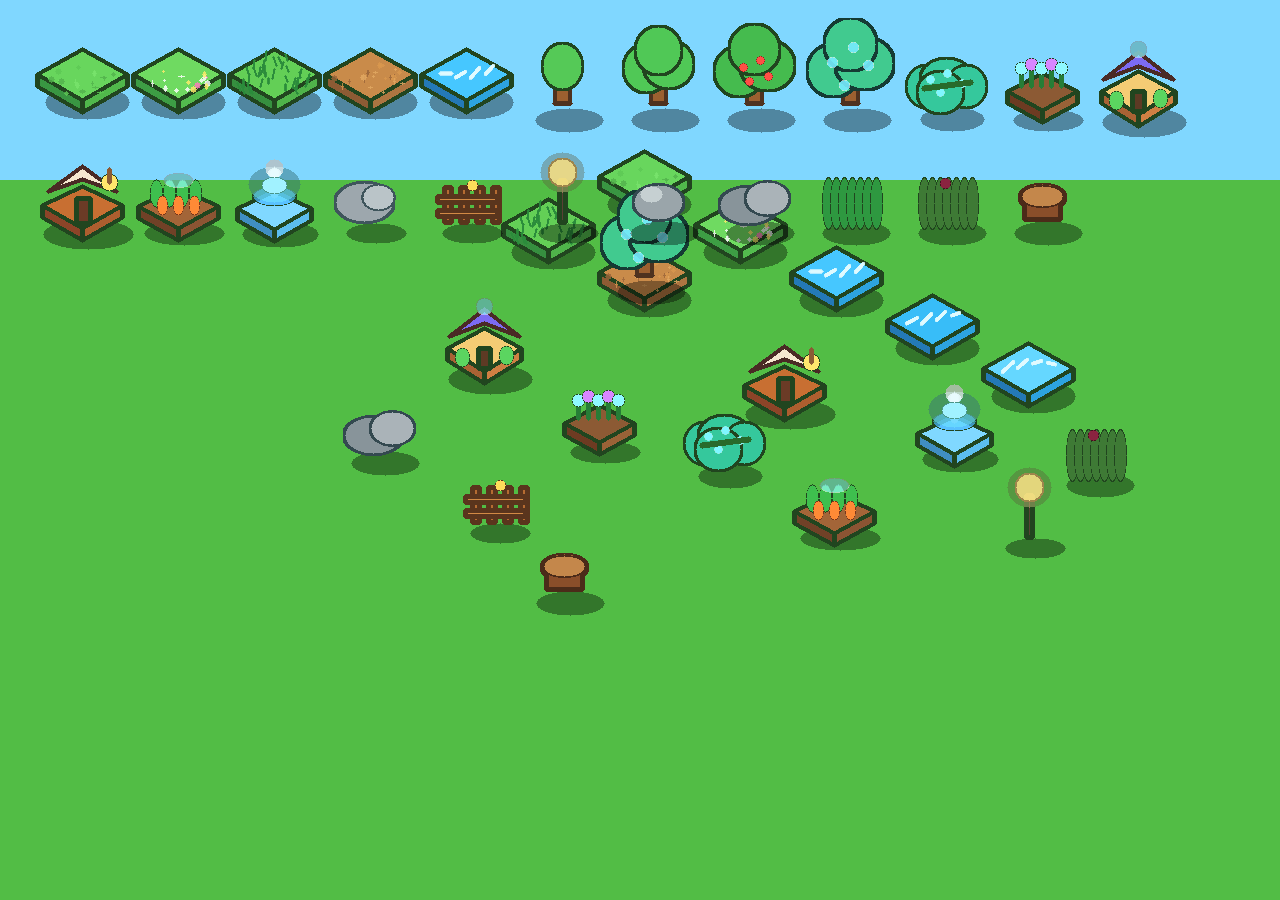
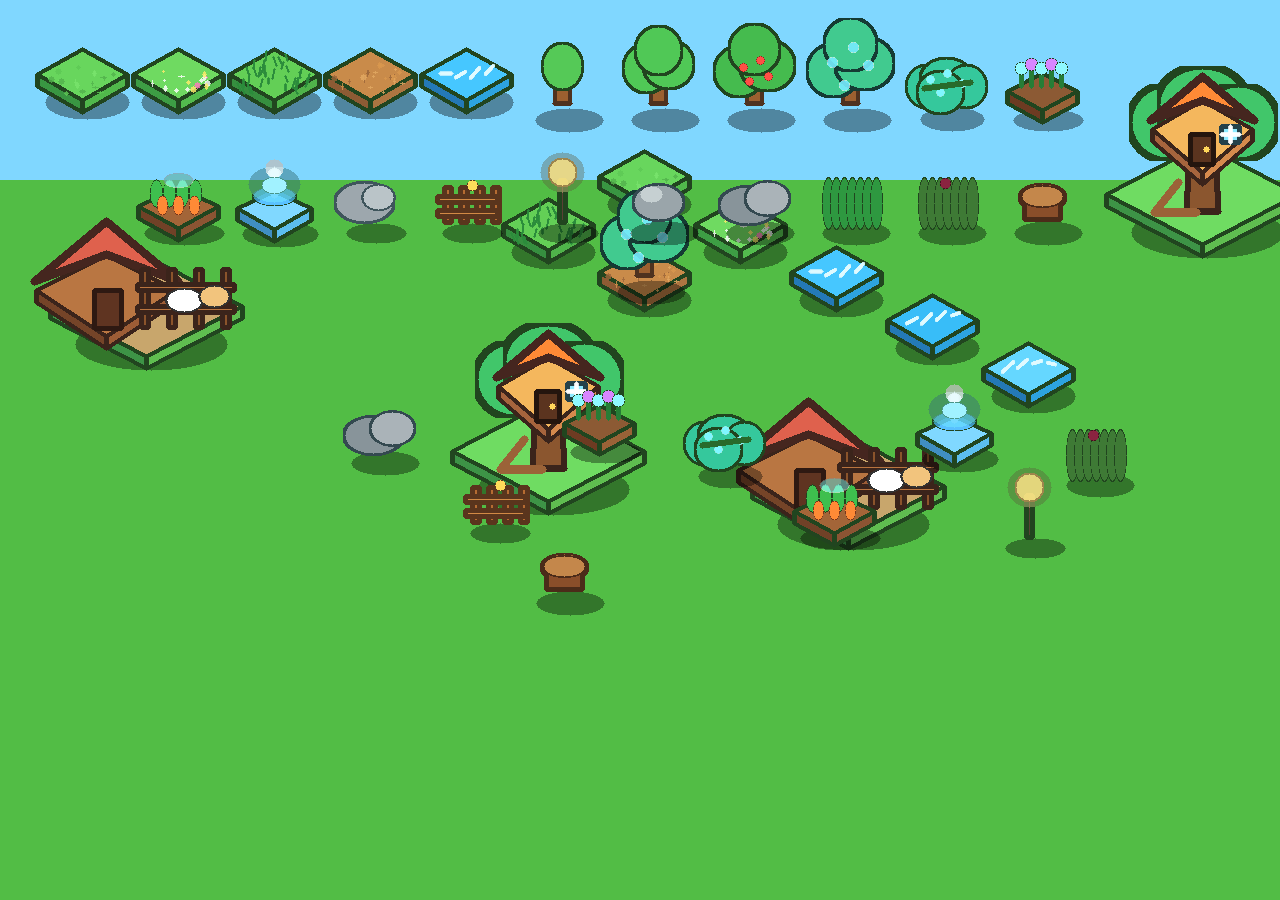
Apply distinct house and farm building sprites

diff --git a/scripts/generate_v3_sprites.py b/scripts/generate_v3_sprites.py
@@ -129,29 +129,92 @@ def flowers(level):
         img.ellipse(x,50-(i%2)*4,6,6,rgba(palettes[level-1][i%2]),rgba('#21451f'),1)
     return img
 
+def big_shadow(img): shadow(img,128,206,76,26)
+def roof_shape(img, pts, color): img.poly(pts, rgba(color), rgba('#45261f'), 4)
+def door_shape(img,x,y,w,h):
+    img.rect(x,y,w,h,rgba('#5b341f'),rgba('#24150e'))
+    img.ellipse(x+w-7,y+h/2,3,3,rgba('#ffd65a'))
+def window_shape(img,x,y,w,h):
+    img.rect(x,y,w,h,rgba('#8eeaff'),rgba('#24414a'))
+    img.line(x+w/2,y,x+w/2,y+h,rgba('#ffffff',210),2)
+    img.line(x,y+h/2,x+w,y+h/2,rgba('#ffffff',210),2)
+def base_building_tile(img, top='#79dc61'):
+    diamond(img,(128,126),(224,176),(128,226),(32,176),top,'#3d9346','#5fbd50','#21451f')
+
 def house(level):
-    img=Img(); shadow(img,65,96,42,15)
-    body=['#d88a42','#e5a34e','#f0b35e','#f4cc74'][level-1]; roof=['#b94c48','#d25a4d','#de704e','#7c6bf2'][level-1]
-    diamond(img,(64,53),(101,73),(64,96),(27,73),body,'#a96234','#ce7f43')
-    img.poly([(29,61),(64,34),(99,61),(64,48)],rgba(roof),rgba('#4a2a25'),2)
-    img.rect(58,73,12,20,rgba('#5d3a24'),rgba('#21451f'))
-    if level>=3: img.ellipse(42,82,7,9,rgba('#5bd560'),rgba('#21451f'),1); img.ellipse(86,80,7,9,rgba('#5bd560'),rgba('#21451f'),1)
-    if level>=4: img.ellipse(64,31,8,8,rgba('#8ff9ff',180),rgba('#ffffff',120),1)
+    # Four visibly different home silhouettes: cottage, mill-house, manor, treehouse.
+    img=Img(256,256); big_shadow(img)
+    if level == 1:
+        base_building_tile(img)
+        diamond(img,(128,108),(190,140),(128,184),(66,140),'#f4c56d','#b96f41','#dc9150','#3b241b')
+        roof_shape(img,[(58,128),(128,72),(198,128),(128,105)],'#d94b45')
+        img.rect(156,74,18,26,rgba('#7b3c2a'),rgba('#3b241b'))
+        img.poly([(154,70),(176,70),(181,82),(149,82)],rgba('#cf6a3f'),rgba('#3b241b'),3)
+        door_shape(img,116,146,24,38); window_shape(img,82,135,24,20); window_shape(img,154,137,24,20)
+        img.ellipse(72,176,16,22,rgba('#4ed35d'),rgba('#21451f'),2); img.ellipse(187,175,14,20,rgba('#ff7ab6'),rgba('#21451f'),2)
+    elif level == 2:
+        base_building_tile(img,'#70d95d')
+        diamond(img,(128,96),(188,132),(128,194),(68,132),'#fff0b4','#c8864c','#efb46d','#3b241b')
+        roof_shape(img,[(66,120),(128,62),(190,120),(128,92)],'#3b93e6')
+        img.rect(82,132,35,55,rgba('#f7d884'),rgba('#3b241b')); roof_shape(img,[(72,132),(100,103),(128,132),(100,118)],'#2d7fd2')
+        door_shape(img,134,148,26,38); window_shape(img,93,144,16,18); window_shape(img,166,137,22,20)
+        for x,y in [(62,182),(190,178)]: img.ellipse(x,y,12,20,rgba('#56d164'),rgba('#21451f'),2)
+    elif level == 3:
+        base_building_tile(img,'#7cdc65')
+        diamond(img,(128,92),(198,128),(128,202),(58,128),'#f7d28a','#b67a49','#e4a765','#3b241b')
+        roof_shape(img,[(54,116),(128,52),(202,116),(128,88)],'#7c62f0')
+        for x in [72,164]:
+            img.rect(x,105,28,78,rgba('#f2c979'),rgba('#3b241b'))
+            roof_shape(img,[(x-6,105),(x+14,72),(x+34,105),(x+14,94)],'#5e4bd7')
+            window_shape(img,x+7,122,14,18)
+        door_shape(img,116,154,28,42); window_shape(img,118,120,22,21)
+        img.ellipse(128,50,9,9,rgba('#8ff9ff',180),rgba('#ffffff',160),1)
+    else:
+        base_building_tile(img,'#6fdc62')
+        img.poly([(112,193),(144,193),(140,113),(116,113)],rgba('#8b562f'),rgba('#3b241b'),3)
+        for dx,dy,rx in [(-34,0,36),(0,-18,42),(36,0,36)]: img.ellipse(128+dx,104+dy,rx,35,rgba('#41c66a'),rgba('#21451f'),3)
+        diamond(img,(128,82),(178,111),(128,154),(78,111),'#f4b75d','#a6643d','#d58a4d','#3b241b')
+        roof_shape(img,[(76,102),(128,58),(180,102),(128,82)],'#ff8a36')
+        door_shape(img,116,116,23,30); window_shape(img,147,108,18,16)
+        img.line(104,164,80,194,rgba('#9b6338'),4); img.line(80,194,122,194,rgba('#9b6338'),4)
     return img
 
 def farm(level):
-    img=Img(); shadow(img,65,96,45,15)
-    if level==1:
-        diamond(img,(64,59),(104,78),(64,99),(24,78),'#b97540','#7b4a2b','#9d6338')
-        for x in [38,52,76,90]: img.rect(x,59,4,27,rgba('#8a4d28'),rgba('#4a2b1a'))
-    elif level==2:
-        img=farm(1); img.ellipse(54,68,8,6,rgba('#fff'),rgba('#333'),1); img.ellipse(77,70,8,6,rgba('#f6d59a'),rgba('#333'),1)
+    # Four farm silhouettes: barn, barn+silo, windmill farm, animal paddock.
+    img=Img(256,256); big_shadow(img)
+    if level == 1:
+        base_building_tile(img,'#c9a467')
+        diamond(img,(128,97),(204,137),(128,207),(52,137),'#d85848','#923e34','#c94b3f','#3b241b')
+        roof_shape(img,[(48,123),(128,56),(208,123),(128,90)],'#fff0d0')
+        img.rect(108,153,40,48,rgba('#6b3727'),rgba('#2e1912')); img.line(108,153,148,201,rgba('#f7cfae'),3); img.line(148,153,108,201,rgba('#f7cfae'),3)
+        window_shape(img,80,132,24,22); window_shape(img,154,132,24,22)
+        img.ellipse(48,184,18,12,rgba('#f0c85b'),rgba('#7a531f'),2); img.ellipse(202,181,15,11,rgba('#f0c85b'),rgba('#7a531f'),2)
+    elif level == 2:
+        base_building_tile(img,'#c69c5e')
+        diamond(img,(118,107),(190,140),(118,204),(46,140),'#c94a3f','#8f3a32','#bd4539','#3b241b')
+        roof_shape(img,[(42,127),(118,62),(194,127),(118,96)],'#f7e6c8')
+        img.rect(178,84,28,104,rgba('#d9e8e8'),rgba('#3d5555')); img.ellipse(192,84,14,10,rgba('#ffffff'),rgba('#3d5555'),2)
+        img.rect(94,154,38,44,rgba('#6b3727'),rgba('#2e1912')); window_shape(img,67,135,22,20)
+        for x in [40,58,216]: img.rect(x,158,7,40,rgba('#8b542b'),rgba('#3b241b'))
+        img.rect(35,171,188,6,rgba('#b97540'),rgba('#3b241b'))
+    elif level == 3:
+        base_building_tile(img,'#c9a15f')
+        diamond(img,(122,110),(190,143),(122,202),(54,143),'#e0a857','#9b6237','#c98545','#3b241b')
+        roof_shape(img,[(52,132),(122,75),(192,132),(122,103)],'#cc5845')
+        img.rect(177,86,8,93,rgba('#7a4a2a'),rgba('#3b241b'))
+        for a in range(4):
+            dx=math.cos(a*math.pi/2+0.78)*36; dy=math.sin(a*math.pi/2+0.78)*36
+            img.line(181,88,181+dx,88+dy,rgba('#fff0ca'),6)
+        img.ellipse(181,88,7,7,rgba('#b75b3e'),rgba('#3b241b'),2)
+        door_shape(img,103,154,34,42); window_shape(img,70,139,22,20)
     else:
-        diamond(img,(64,56),(104,75),(64,98),(24,75),'#c86f32','#8d4428','#ad5e2f')
-        img.poly([(30,61),(64,36),(98,61),(64,49)],rgba('#f6e8d0'),rgba('#4a2a25'),2)
-        img.rect(58,68,14,25,rgba('#6b3b26'),rgba('#21451f'))
-        if level==4:
-            img.ellipse(91,52,8,8,rgba('#ffe66d'),rgba('#21451f'),1); img.line(91,52,91,39,rgba('#8b5b35'),2)
+        base_building_tile(img,'#c8a66c')
+        diamond(img,(88,125),(158,160),(88,206),(18,160),'#b97642','#754428','#9d5d36','#3b241b')
+        roof_shape(img,[(16,151),(88,91),(160,151),(88,124)],'#df614d')
+        for x in [123,150,177,204]: img.rect(x,139,7,58,rgba('#8b542b'),rgba('#3b241b'))
+        img.rect(119,154,216-119,6,rgba('#b97540'),rgba('#3b241b')); img.rect(119,176,216-119,6,rgba('#b97540'),rgba('#3b241b'))
+        img.ellipse(166,170,17,11,rgba('#ffffff'),rgba('#333333'),2); img.ellipse(196,166,14,10,rgba('#f2c47d'),rgba('#333333'),2)
+        img.rect(76,160,27,38,rgba('#5f3421'),rgba('#2e1912'))
     return img
 
 def vegetable(level):
